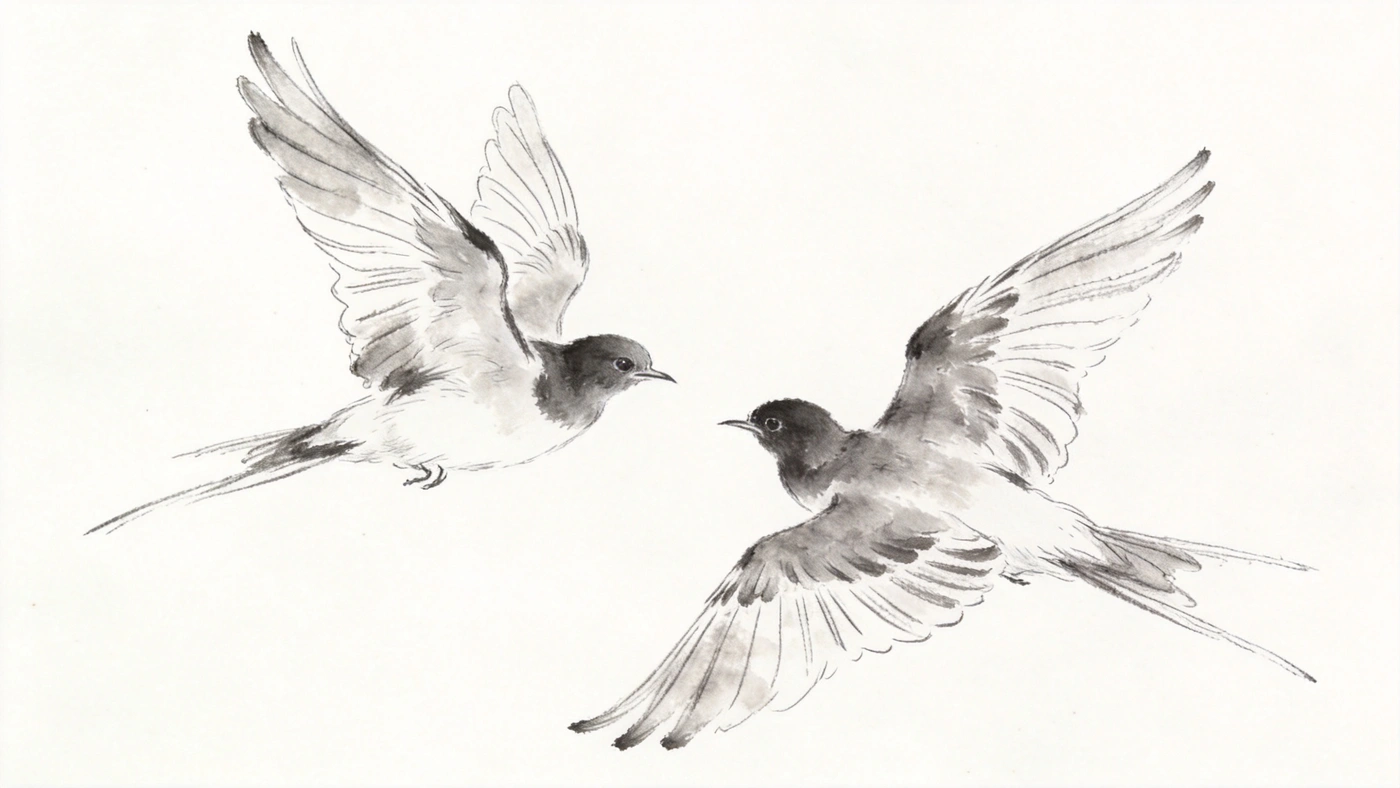
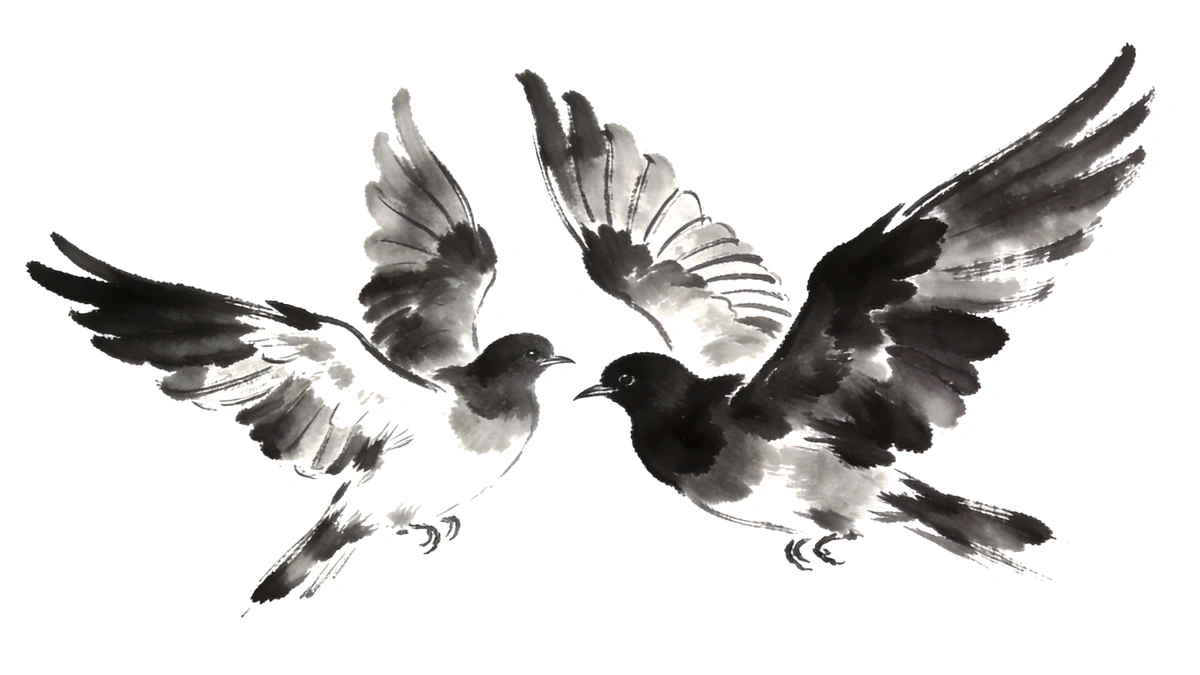
M114.1: 比翼鸟矩形帷子根修——浓墨 v3+sRGB 白点曲线归纯白底（80KB，双主题边带 Δ≤1.3、艺术核可见），CSS 补丁全回退（LESSONS 243）

Changed region(s): [[0.0, 0.0311, 0.9867, 0.9644], [0.925, 0.84, 0.9558, 0.8711], [0.0617, 0.6533, 0.0925, 0.6844]]

diff --git a/site/assets/site.css b/site/assets/site.css
@@ -465,7 +465,6 @@ section, footer.ft { position: relative; }
 .sketch { position: absolute; pointer-events: none; z-index: 0; opacity: .10; mix-blend-mode: multiply; }
 :root[data-theme="dark"] .sketch { opacity: .16; mix-blend-mode: screen; filter: invert(1); }
 .sketch img { width: 100%; height: 100%; object-fit: contain; clip-path: inset(0 0 100% 0); }
-.sketch.birdsart img { filter: brightness(1.07); } /* 240*1.07>255 纸纹角块归纯白 */ /* M114.1：生图米白底(249-255)推纯白，multiply/screen 下矩形帷子归零；墨线+4% 亮度无可感差 */
 .sketch.rv-in img { animation: skdraw 1.6s cubic-bezier(.3, .7, .3, 1) .15s both; }
 @keyframes skdraw { from { clip-path: inset(0 0 100% 0); } to { clip-path: inset(0 0 -4% 0); } }
 @media (prefers-reduced-motion: reduce) { .sketch img { clip-path: none; } .sketch.rv-in img { animation: none; } }

diff --git a/docs/LESSONS.md b/docs/LESSONS.md
@@ -271,3 +271,4 @@
 240. M114 公开仓文档策展：阶段脚手架（按日期的临时 QA 报告）不进树（git 历史可溯）；活文档不用里程碑命名（M110-acceptance 里躺 M112 增补=命名债）→ 合并为 docs/QA/acceptance.md 活文档+README 索引三类角色（活账本/活验收/归档证据）；清零旧账本并入 GATES 一行。教训：文档与代码同寿命管理——无活引用的文件要么归档要么删，"放着"就是漂移源。
 241. M114 移动 embed 双裁真凶：壳 boot 的 fit() 条件排除 embed（chrome=0&embed=1 时 canvas 固 398×852），手机 stage ~350×460 → 右裁标题+下裁立绘。双保险修：站点侧 fitStage()（iframe 定尺+transform scale 居中，立即生效于已发布 app）+ 壳模板 embed 自 fit（未来发布生效）。教训：嵌入态是独立运行形态，fit/主题/手势都要单列条件过一遍；e2e 时序门在重载机 flaky 时加余量不删门。
 242. M114 装饰意象先考古用户记忆再动手：M113 把"飞鸟背景"实现成小雁阵 SVG，用户要的是"比较大的水墨风素描比翼鸟"——记忆里已有资产意象时，小碎图案=碍眼噪点。修：seedream 水墨比翼鸟（白底免抠，.sketch 混合模式直接吃白底）大尺寸入 trio，雁阵整组移除。教训：用户嘴里的视觉名词先对存量资产/历史版本做意象匹配，匹配不到再问或生成大主体，不要自造散点。
+243. M114.1 生图白底三连环坑：①seedream 直出"纯白"实为米白+纸纹(237-255)，multiply/screen 下=矩形帷子；②白羽连白底泛洪必漏（淡墨开边即洪入），抠透明不可行；③CSS filter brightness 走 linear-light，sRGB 240 仅到 ~246，推不到 255。正解=sRGB 白点曲线后处理（墨段不动、底环归 255，sharp raw+LUT）+ 提示词要**浓墨**使艺/底色调可分；验证口径=开关差分的"边带 Δ vs 艺核 Δ"（边带≈0 且艺核>0 才算融入且可见）。教训：blend 类装饰资产的底色必须数学纯（255/0），"看起来白"不够。
